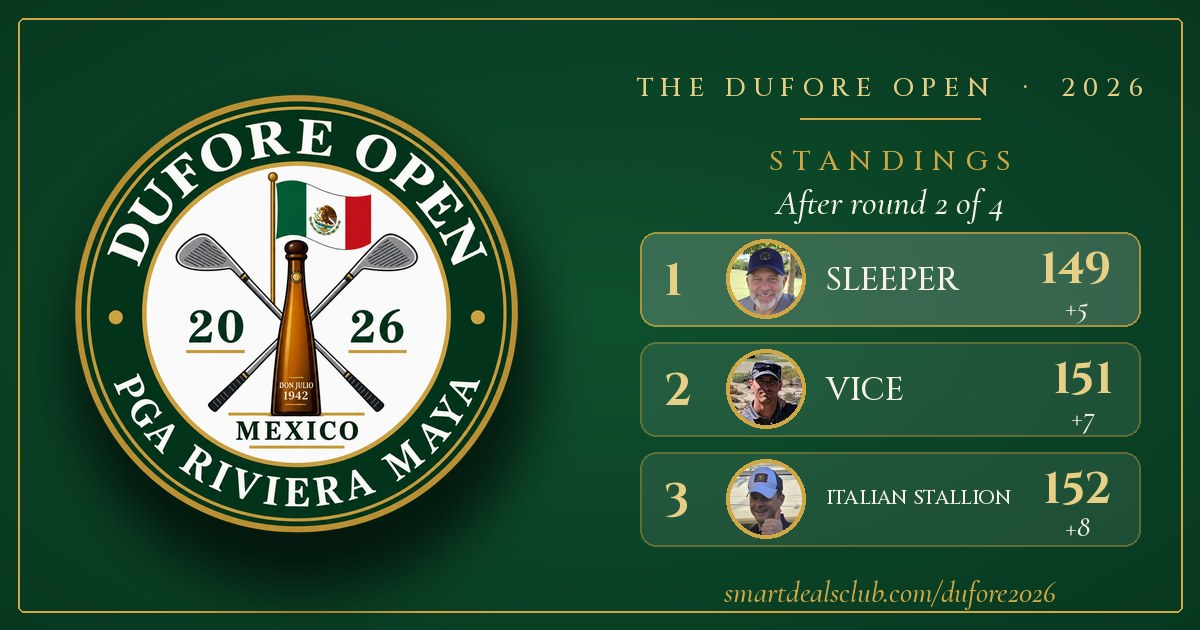
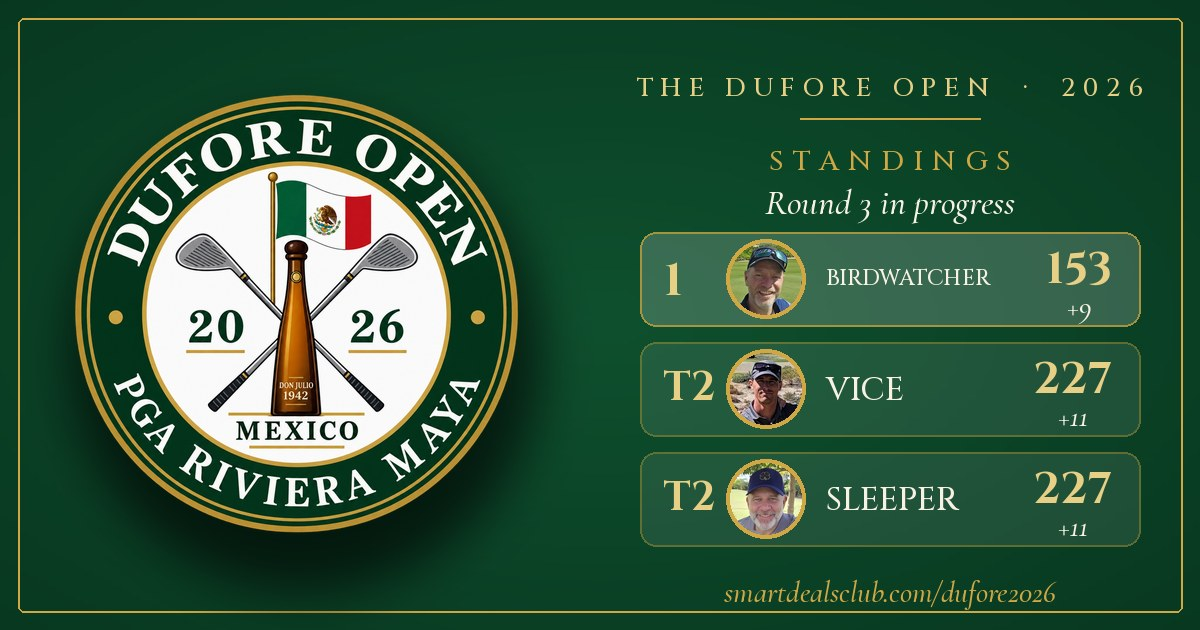
Dufore Open: round 3 partial results (first group) (#47)
* Add Dufore Open 2026 teaser page with countdown

Claude-Session: https://claude.ai/code/session_01PxtoKeknrPEQGS1ZPt4kTL

* Teaser: add round one tee times and coming-soon icons

Claude-Session: https://claude.ai/code/session_01PxtoKeknrPEQGS1ZPt4kTL

* Teaser: frame spans full page height

Claude-Session: https://claude.ai/code/session_01PxtoKeknrPEQGS1ZPt4kTL

* Teaser: add tee time groups

Claude-Session: https://claude.ai/code/session_01PxtoKeknrPEQGS1ZPt4kTL

* Teaser: add PGA Riviera Maya venue logo

Claude-Session: https://claude.ai/code/session_01PxtoKeknrPEQGS1ZPt4kTL

* Teaser: drop duplicate venue text under logo

Claude-Session: https://claude.ai/code/session_01PxtoKeknrPEQGS1ZPt4kTL

* Teaser: remove round one eyebrow, add 4 rounds line

Claude-Session: https://claude.ai/code/session_01PxtoKeknrPEQGS1ZPt4kTL

* Teaser: add honorary starters portraits and handicap cards

Claude-Session: https://claude.ai/code/session_01PxtoKeknrPEQGS1ZPt4kTL

* Teaser: add The Cook and The BirdWatcher portraits

Claude-Session: https://claude.ai/code/session_01PxtoKeknrPEQGS1ZPt4kTL

* Teaser: add The Sleeper portrait

Claude-Session: https://claude.ai/code/session_01PxtoKeknrPEQGS1ZPt4kTL

* Teaser: add Italian Stallion to honorary starters

Claude-Session: https://claude.ai/code/session_01PxtoKeknrPEQGS1ZPt4kTL

* Dufore Open: standings, field, scoring rules and score data file

Claude-Session: https://claude.ai/code/session_01PxtoKeknrPEQGS1ZPt4kTL
[…]

diff --git a/dufore2026/index.html b/dufore2026/index.html
@@ -14,10 +14,10 @@
 <meta property="og:url" content="https://smartdealsclub.com/dufore2026/">
 <meta property="og:image:width" content="1200">
 <meta property="og:image:height" content="630">
-<meta name="twitter:image" content="https://smartdealsclub.com/dufore2026/share.jpg?v=8103c445">
+<meta name="twitter:image" content="https://smartdealsclub.com/dufore2026/share.jpg?v=212d2068">
 <meta property="og:title" content="Dufore Open 2026">
 <meta property="og:description" content="Something's brewing at PGA Riviera Maya. Tee off tomorrow, 9:00 AM.">
-<meta property="og:image" content="https://smartdealsclub.com/dufore2026/share.jpg?v=8103c445">
+<meta property="og:image" content="https://smartdealsclub.com/dufore2026/share.jpg?v=212d2068">
 <meta property="og:type" content="website">
 <meta name="twitter:card" content="summary_large_image">
 <link rel="icon" type="image/png" href="favicon.png">
